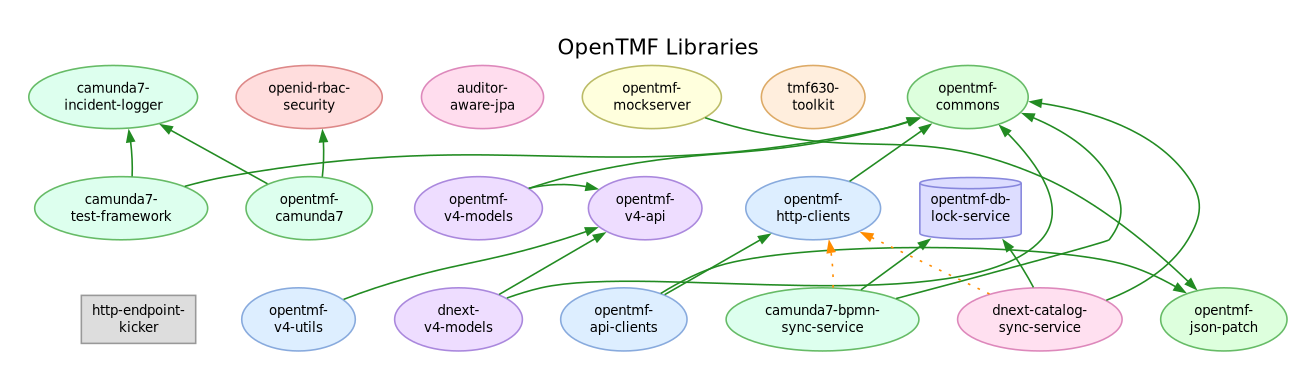
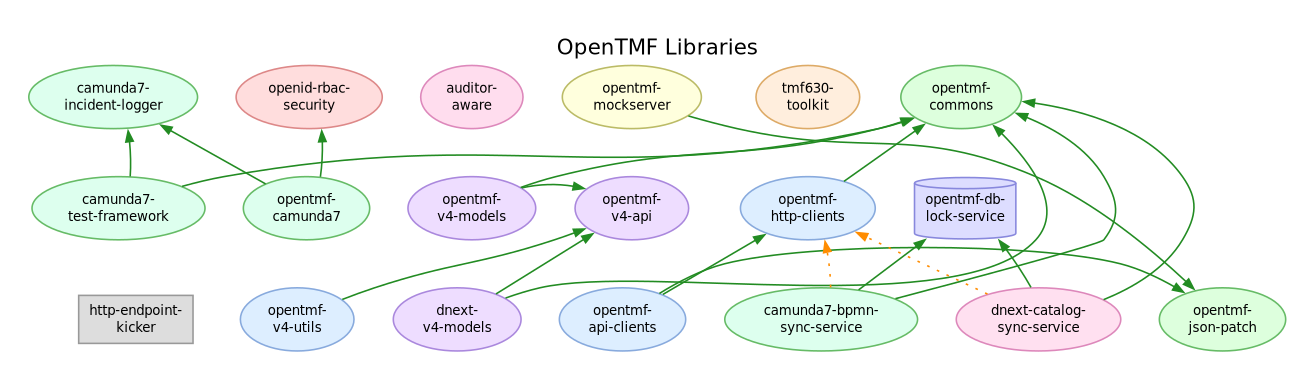
Bump `tmf630-toolkit` to 2.1.2 and prepare release 2.1.10 in changelog, README, and pom files.

diff --git a/CHANGELOG.md b/CHANGELOG.md
@@ -5,6 +5,11 @@ All notable changes to this project will be documented in this file.
 The format is based on [Keep a Changelog](https://keepachangelog.com/en/1.1.0/),
 and this project adheres to [Semantic Versioning](https://semver.org/spec/v2.0.0.html).
 
+## [2.1.10] - 2026-06-03
+
+### Updated
+- Updated `tmf630-toolkit` to 2.1.2 (Fixes multi-term Mongo correlated sort failing with "parallel arrays").
+
 ## [2.1.9] - 2026-06-01
 
 ### Updated

diff --git a/README.md b/README.md
@@ -23,7 +23,7 @@ Pin the BOM version in your `<properties>` and import it under `<dependencyManag
 
 ```xml
 <properties>
-  <opentmf-versions.version>2.1.9</opentmf-versions.version>
+  <opentmf-versions.version>2.1.10</opentmf-versions.version>
 </properties>
 
 <dependencyManagement>
